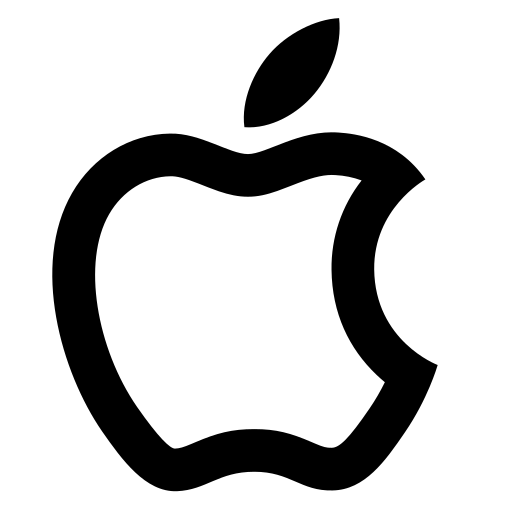
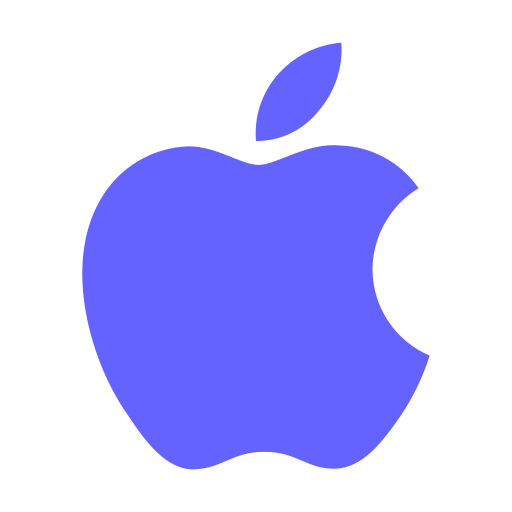
added footer section

diff --git a/index.html b/index.html
@@ -120,21 +120,117 @@
             </div>
             <div class="download_content">
                 <h1><span id="play_content">Play Games Online</span> Anywhere, Anytime!</h1>
-                <p><small>PC. dad’s phone, mom’s tablet, or your Chromebook, with Gamer you can play your favorite games online for free, any time, anywhere , on any device.</small></p>
+                <p><small>PC. dad’s phone, mom’s tablet, or your Chromebook, with Gamer you can play your favorite games
+                        online for free, any time, anywhere , on any device.</small></p>
             </div>
         </section>
         <section class="careers">
-            <div>
-                <div>
-                    <h1>Careers</h1>
-                    <p>Gamer is driven to create the best and most fun games for our millions of players all around the world, and we,re always on the lookout for more top talent to join our growing team. If you,d like to help us make great games and be a part of Gamers bright future, we,d love to hear from you.</p>
+            <div class="careers_container">
+                <div class="careers_content">
+                    <div>
+                        <h1 class="career_heading">Careers</h1>
+                        <p>Gamer is driven to create the best and most fun games for our millions of players all around
+                            the world, and we,re always on the lookout for more top talent to join our growing team. If
+                            you,d like to help us make great games and be a part of Gamers bright future, we,d love to
+                            hear from you.</p>
+                    </div>
+                    <div class="careers_p">
+                        <div class="careers_div1">
+                            <p>Multimedia Artist +</p>
+                            <p>Data Engineer +</p>
+                            <p>Adroid Engineer +</p>
+                            <p>Server Developer +</p>
+                            <p>Group Financial Accountant +</p>
+                            <p>Senior User Acuisition Specialist +</p>
+                        </div>
+                        <div class="careers_div2">
+                            <p>Lisbon, Portugal</p>
+                            <p>Lisbon, Portugal</p>
+                            <p>Zoetermeer, Netherlands</p>
+                            <p>Lisbon, Portugal</p>
+                            <p>London, United Kingdom</p>
+                            <p>Lisbon, Portugal</p>
+                        </div>
+                    </div>
                 </div>
-                <div></div>
+                <div class="img_div">
+                    <img src="./images/Group 65.png" alt="">
+                </div>
+            </div>
+        </section>
+        <section class="gaming_role">
+            <div class="img_1">
+                <div class="img_1_content">
+                    <div><img src="./images/Rectangle 11.png" alt=""></div>
+                    <div><p>Action Games</p></div>
+                </div>
+                <div class="img_1_content">
+                    <div><img src="./images/Rectangle 12.png" alt=""></div>
+                    <div><p>Adventure Games</p></div>
+                </div>
+                <div class="img_1_content">
+                    <div><img src="./images/Rectangle 13.png" alt=""></div>
+                    <div><p>Arcade Games</p></div>
+                </div>
+                <div class="img_1_content">
+                    <div><img src="./images/Rectangle 14.png" alt=""></div>
+                    <div><p>Educational Games</p></div>
+                </div>
+                <div class="img_1_content">
+                    <div><img src="./images/Rectangle 15.png" alt=""></div>
+                    <div><p>Word Games</p></div>
+                </div>
+            </div>
+            <div class="img_2">
+                <div class="img_1_content">
+                    <div><img src="./images/Rectangle 16.png" alt=""></div>
+                    <div><p>Role Palying Games</p></div>
+                </div>
+                <div class="img_1_content">
+                    <div><img src="./images/Rectangle 17.png" alt=""></div>
+                    <div><p>Music & Audio Games</p></div>
+                </div>
+                <div class="img_1_content">
+                    <div><img src="./images/Rectangle 18.png" alt=""></div>
+                    <div><p>Puzzle Games</p></div>
+                </div>
+                <div class="img_1_content">
+                    <div><img src="./images/Rectangle 19.png" alt=""></div>
+                    <div><p>Strategy Games</p></div>
+                </div>
             </div>
         </section>
     </main>
 
-    <footer></footer>
+    <footer class="footer_section">
+        <div class="nav_section">
+            <img id="gamer_img" src="./images/Frame.png" alt="">
+            <p><span class="nav_header">G</span><span id="footer_header">amer</span></p>
+        </div>
+        <div class="footer_content">
+            <p>Our Story</p>
+            <p>Games</p>
+            <p>Web Games</p>
+            <p>Careers</p>
+            <p>Support</p>
+            <p>My Account</p>
+        </div>
+        <div class="footer_icon">
+            <img src="./images/twitter.png" alt="">
+            <img src="./images/facebook.png" alt="">
+            <img src="./images/linkedin.png" alt="">
+            <img src="./images/instgram.png" alt="">
+            <img src="./images/youtube.png" alt="">
+            <img src="./images/apple.png" alt="">
+        </div>
+        <div class="tarms_and_privacy">
+            <p>Terms and Conditions</p>
+            <p>Privacy Policy</p>
+            <p>Cookie Policy</p>
+            <p>Privacy Settings</p>
+        </div>
+        <p class="footer">Play Games &copy; Gamer &copy; 2000-2023 Gamer Bangladesh</p>
+    </footer>
 </body>
 
 </html>

diff --git a/style/style.css b/style/style.css
@@ -87,10 +87,11 @@ header {
 /* banner section */
 
 .banner_secition {
-    height: 700px;
+    height: 500px;
     width: 100%;
     display: flex;
     justify-content: space-around;
+    margin-top: 30px;
 }
 
 .banner_header {
@@ -105,7 +106,7 @@ header {
     font-size: 95px;
     font-weight: 800;
     text-align: center;
-    color: #F948B2;
+    color: #ee44a7;
     margin-top: -40px;
 }
 
@@ -325,6 +326,7 @@ header {
     font-size: 40px;
     font-weight: 700;
 }
+
 /* play game  */
 
 #girl_img2 {
@@ -336,57 +338,145 @@ header {
 }
 
 /* careers secition  */
-.careers{
+.careers {
     background-color: #db3d9f;
-    height: 700px;
+    height: 550px;
+    width: 100%;
+    margin-top: 100px;
+    margin-bottom: 100px;
+}
+
+.careers_container {
+    display: flex;
+}
+
+.careers_content {
+    width: 50%;
+    color: whitesmoke;
+    padding: 60px;
+}
+
+.img_div {
+    width: 50%;
+}
+
+.img_div>img {
+    width: 100%;
+}
+
+.careers_p {
+    display: flex;
+}
+
+.career_heading {
+    font-family: Work Sans;
+    font-size: 48px;
+    font-weight: 700;
+    text-align: left;
+}
+
+.careers_div1 {
+    text-align: left;
+    padding: 10px;
+}
+
+.careers_div2 {
+    text-align: right;
+    padding-left: 20px;
+    padding-right: 20px;
+}
+
+/* image role section  */
+
+.gaming_role {
+    height: 300px;
+    width: 100%;
+}
+
+.img_1 {
+    display: flex;
+    justify-content: center;
+}
+
+.img_1_content {
+    display: flex;
+    justify-content: center;
+    align-items: center;
+    gap: 30px;
+    margin: 0px 10px;
+    padding: 7px;
+}
+
+.img_1_content:hover {
+    border: 1px solid tomato;
+    border-radius: 25px;
+    color: #db3d9f;
+    cursor: pointer;
+}
+
+.img_2 {
+    display: flex;
+    justify-content: center;
+    margin-top: 10px;
+}
+
+/* footer section  */
+
+.footer_section {
+    height: 536px;
+    width: 100%;
+    background-color: rgba(11, 2, 35, 1);
+}
+
+#footer_header {
+    color: whitesmoke;
+}
+
+.footer_content {
+    display: flex;
+    justify-content: center;
+    align-items: center;
+    color: whitesmoke;
+    gap: 60px;
+}
+
+.footer_content>p {
+    font-family: Work Sans;
+    font-size: 18px;
+    font-weight: 600;
+    text-align: center;
+}
+
+.footer_icon {
+    display: flex;
+    justify-content: center;
+    align-items: center;
+    gap: 40px;
+    margin-top: 56px;
+}
+
+.footer_icon>img {
+    width: 40px;
+    height: 40px;
+}
+.tarms_and_privacy{
+    display: flex;
+    justify-content: center;
+    align-items: center;
+    color: rgba(255, 255, 255, 0.6);
+    margin-top: 64px;
+    gap: 60px;
+}
+.footer{
+    color: rgba(255, 255, 255, 0.6);
+    text-align: center;
+    margin-top: 18px;
 }
 
 
 
 
 
-
-
-
-
-
 @media screen and (max-width:576px) {
-    .nav {
-        flex-direction: column;
-        background-color: rgb(253, 253, 253);
-    }
-
-    .nav_section {
-        margin-left: -10px;
-    }
-
-    .contact_section {
-        flex-direction: column;
-        margin-right: 10px;
-    }
-
-    .contact_section>li {
-        margin-top: 15px;
-    }
-
-    .banner_secition {
-        flex-direction: column-reverse;
-    }
-
-    .group_img {
-        margin-top: 1000px;
-    }
-
-    .banner_content {
-        margin-left: 30px;
-    }
-
-    .btn {
-        margin-left: 40px;
-    }
-
-    .sg_btn {
-        margin-top: 10px;
-    }
-
+   
 }
